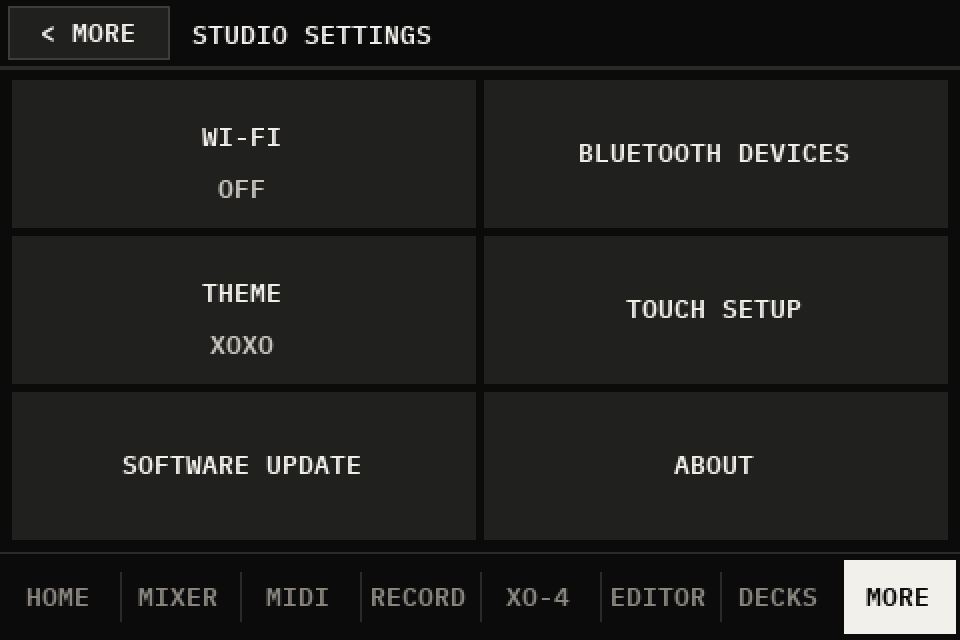
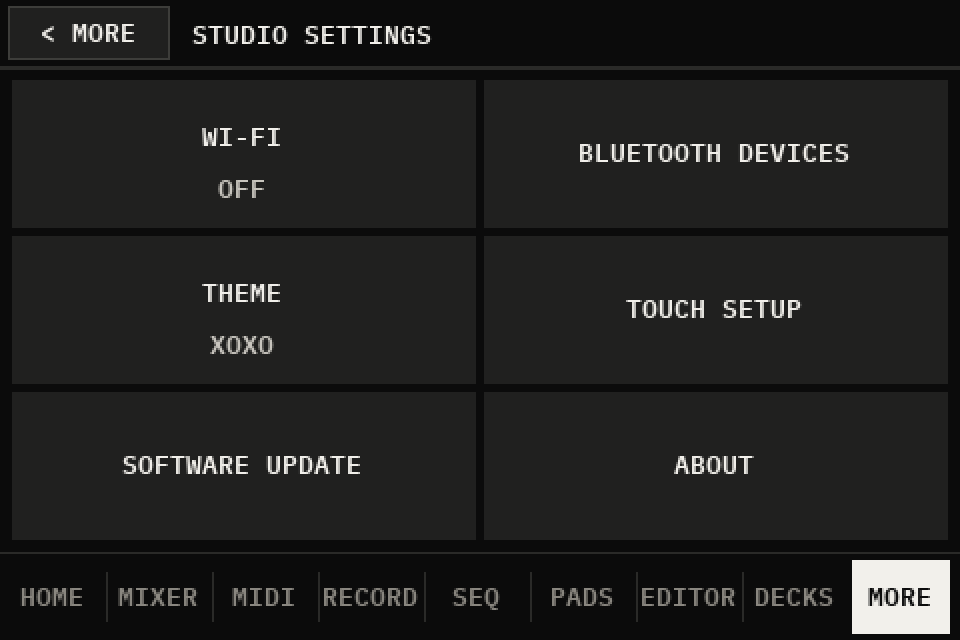
README brought up to 0.3.0: SEQ at the top, the plug-ins marked as plug-ins, what was tried in 0.2 said so; new screens
- The first picture is SEQ (docs/images/studio-hero.png, the Studio's own SEQ screen drawn on a PC), not a still of
  XO-4 from the tour; the tour's caption says it shows beta 0.2
- The table: a SEQ row and a plug-ins row (sampler, sample editor, DJ decks, synths: what was tried in 0.2, when
  they were part of the app, and what isn't tried in 0.3.0)
- The web app, What's inside, MIDI and the Built-on table: the pads, the editor and the decks as plug-ins; EDITOR
  moved beside PADS and DECKS, each "(a plug-in)"; the pictures said to show those plug-ins switched on
- Tested: what names XO-4, the pads, the decks or the editor was tried in 0.2; Not yet tried has SEQ and 0.3.0's
  plug-ins instead of XO-4
- docs/images/studio-about.png and studio-settings.png drawn again (python tools/studio_screens.py): ABOUT shows
  0.3.0. The other pictures came out the same as before

Credits: none new. This text and the pictures: GPL-3.0 with the repo.

Tested: the pictures drawn on a PC by tools/studio_screens.py with XOXO-Studio-Plugins beside the repo, and looked at.
Not tested: nothing to run; the README as GitHub shows it.

Changed region(s): [[0.0, 0.875, 1.0, 1.0]]

diff --git a/README.md b/README.md
@@ -1,8 +1,8 @@
 # XOXO Studio (beta 0.3.0)
 
-[![The XOXO Studio tour: every screen on a real Studio, with a song made on XO-4 and the Synths plug-in (3:36)](docs/images/studio-tour.jpg)](docs/video/xoxo-studio-tour.mp4)
+<img src="docs/images/studio-hero.png" width="640" alt="SEQ, the Studio's 8-track MIDI sequencer">
 
-**[Watch the tour](docs/video/xoxo-studio-tour.mp4)** (3:36): every screen on a real Studio (a Pi 3 B+), with the Studio's own sound. The song, "Pocket Groove", was made on XO-4 with the Synths plug-in. Credits are at the end of the video.
+**[Watch the tour](docs/video/xoxo-studio-tour.mp4)** (3:36): every screen on a real Studio (a Pi 3 B+), with the Studio's own sound. The tour shows beta 0.2, before SEQ took XO-4's place; the song, "Pocket Groove", was made on XO-4 with the Synths plug-in. Credits are at the end of the video.
 
 A portable music studio on a Raspberry Pi with a 3.5" touchscreen, by XOXO Audio Labs: an 8-track MIDI sequencer (SEQ), a mixer and recorder for USB sound sources, MIDI routing, a web app for your phone, and, on a Pi 4, a USB audio + MIDI interface for your computer. It's made for USB and Bluetooth MIDI gear and USB sound sources, not tied to one instrument. More comes as plug-ins, each off until switched on: a 16-pad sampler, a sample editor, two DJ decks and synths, from [XOXO-Studio-Plugins](https://github.com/xoxoaudiolabs/XOXO-Studio-Plugins).
 
@@ -16,13 +16,13 @@ The version shows on the boot screen and in MORE › STUDIO SETTINGS › ABOUT.
 |---|---|---|
 | Install, boot, touchscreen | Pi 4 (Waveshare 3.5" (C), DAC HAT); Pi 3 B+ (Hosyond 3.5" SPI); Pi 3 B (UCTRONICS 3.5" HDMI) | Waveshare (A); a fresh install with the `xoxo35` screen set-up; the `--screen hdmi` option itself |
 | Pi 4 as a USB interface | Windows 11, no driver: audio and MIDI both ways | a DAW; macOS or Linux; the power/data splitter; latency |
-| SEQ and the pads | the pads used by hand and measured (with XO-4, before SEQ replaced it); SEQ on a PC only | SEQ on a Studio: its tracks, timing, MIDI out to real gear |
+| SEQ | its screen seen on the Pi 4 | its tracks, timing, MIDI out to real gear (tried on a PC only) |
 | Mixer and sound out | USB sources heard (two FM-1s, an Ember Nanocore, a USB mic); the DAC HAT's outs; a Bluetooth speaker; mute, solo and level measured | the Pi's own 3.5 mm jack; CUE |
-| DJ decks | played by touch, music from a USB drive; SYNC to the Studio's clock measured (with XO-4) | a controller (the Hercules, MIDI LEARN) |
+| Plug-ins: sampler, sample editor, DJ decks, synths | in 0.2, when they were part of the app: the pads used by hand and measured; the decks played by touch from a USB drive, their SYNC measured; Synths and Tester Tools on a Pi 3 B+ | 0.3.0's plug-ins switched on on a Studio; the sample editor on hardware; the decks with a controller (the Hercules, MIDI LEARN) |
 | Two Studios linked | clock, start/stop, REC from the leader on both, the link's latency measured | sound heard across by ear; REC from the follower |
 | A Pocket linked | its link and its sound into the Studio | the speaker handover; the mix back to a Pocket; its FM-1s on their own streams |
-| MIDI | network MIDI; clock out a route to a USB device; a USB keyboard playing XO-4's synth (Pi 4) | a keyboard's notes out to other gear through the routes; arp and chord |
-| Recording | takes from the web page on two linked Studios | a take listened back on the Studio; the sample EDITOR |
+| MIDI | network MIDI; clock out a route to a USB device; a USB keyboard playing XO-4's synth (Pi 4, in 0.2) | a keyboard's notes out to other gear through the routes; arp and chord |
+| Recording | takes from the web page on two linked Studios | a take listened back on the Studio |
 | Web app | on a phone and a PC: the tabs, Settings, the MIDI grid | adding music from a phone; USB out and the link settings from it |
 | Updates | from GitHub on a Pi 3 B+ (v0.2.0, then v0.2.1); without a password on a Pi 3 B | going back when a new version won't start (tried on a PC only) |
 | Shutting down | ends on SAFE TO UNPLUG (a Pi 3 B, SPI screen) | — |
@@ -61,7 +61,7 @@ The version shows on the boot screen and in MORE › STUDIO SETTINGS › ABOUT.
    - `--screen c`: the Waveshare 3.5" (C) (tried on the Pi 4: right side up).
    - No `--screen`: the Hosyond 3.5" / Waveshare (A), with the Studio's `xoxo35` overlay for blacker blacks (made and used on a running Studio; a fresh install with it not yet tried).
    - `--screen hdmi`: the UCTRONICS 3.5" HDMI touchscreen (its settings tried, set by hand; the option itself not yet run).
-   - On a Pi 4 the installer also sets up the USB interface on its USB-C port, with nothing to choose (tried: see [The Pi 4 as a USB interface](#the-pi-4-as-a-usb-interface)), and the Studio plays more at once: up to 32 pad voices (16 on a Pi 3) (measured, not yet listened to).
+   - On a Pi 4 the installer also sets up the USB interface on its USB-C port, with nothing to choose (tried: see [The Pi 4 as a USB interface](#the-pi-4-as-a-usb-interface)), and the sampler plug-in plays more at once: up to 32 pad voices (16 on a Pi 3) (measured in 0.2, not yet listened to).
 5. **On the first start** the Studio asks for the touch setup (four targets) before HOME.
 
 ## Updating
@@ -80,14 +80,14 @@ At `http://xoxostudio.local` (or the address in MORE › STUDIO SETTINGS › ABO
 
 Its tabs:
 - **Status:** the tempo, start / stop, the metronome, speaker, volume, the mixer (with DECKS while they play), a linked Pocket, keyboard, Record
-- **Studio:** the sequencer's patterns A–H, Play / Stop, MIDI IN; the pads' kits; the DJ decks; the Studio DJ Music folder, where tracks can be added from the page (not yet tried from a phone)
+- **Studio:** SEQ's patterns A–H, Play / Stop; with the plug-ins on, the pads' kits and MIDI IN (sampler), the DJ decks and the Studio DJ Music folder, where tracks can be added from the page (not yet tried from a phone)
 - **MIDI:** the routes and presets (on a phone the grid's destination names stand up, so every route fits across)
-- **Library** (samples), **Editor**, **Rec** (the recordings)
+- **Library** (samples), **Editor** (while the sample editor plug-in is on), **Rec** (the recordings)
 - **Settings:** the clock, the audio rate and Latency, USB out, the Studio link, the screen's theme, About, and Software (updates)
 
 ## What's inside
 
-The pictures are drawn on a PC by the Studio's own drawing code with a made-up studio (`python tools/studio_screens.py docs/images`), at twice the screen's 480×320: they're not photos of the device.
+The pictures are drawn on a PC by the Studio's own drawing code with a made-up studio (`python tools/studio_screens.py docs/images`, with a clone of XOXO-Studio-Plugins beside this one), at twice the screen's 480×320: they're not photos of the device. They show the sampler, sample editor and DJ decks plug-ins switched on; without them the tab bar is HOME, MIXER, MIDI, RECORD, SEQ, MORE.
 
 The tab bar: HOME, MIXER, MIDI, RECORD, SEQ, MORE, and the plug-ins' tabs before MORE (PADS, EDITOR, DECKS while they're on). SEQ, PADS, EDITOR, DECKS and RECORD are full screen: "< HOME", top left, leads back. MIXER, MIDI and MORE keep the tab bar and have "< HOME" too.
 
@@ -102,12 +102,6 @@ The tempo with − / +; every source (each USB device, the pads, the decks while
 Every source a level, with M (mute) and S (solo) above its fader (also on the web page; HOME says MUTE or OFF), recorded as one mix (or a part each), with meters. Mute and solo leave CUE and Record parts as they are, and a restart clears them.
 
 <img src="docs/images/studio-mixer.png" width="480" alt="MIXER">
-
-### EDITOR
-
-The sample editor (full screen): a recording or a sample trimmed, faded, its note found, saved as a new sample, or put straight on a pad (TO PAD). Not yet tried on hardware.
-
-<img src="docs/images/studio-editor.png" width="480" alt="EDITOR">
 
 ### SEQ, the sequencer
 
@@ -136,15 +130,21 @@ The 16-pad sampler is a plug-in (`sampler` in [XOXO-Studio-Plugins](https://gith
 |---|---|
 | <img src="docs/images/studio-pads.png" width="400" alt="PADS"><br>**PADS** | <img src="docs/images/studio-pad-page.png" width="400" alt="A pad's page"><br>**A pad's page** |
 
-### DECKS
+### EDITOR, the sample editor (a plug-in)
 
-Two DJ decks (full screen), from the Studio DJ Music folder or a USB drive, played by touch (tried), a Hercules DJControl Inpulse 200 MK2 (its mapping is built in; not yet tried on the Studio), or another MIDI controller after MIDI LEARN (not yet tried). Each deck has its own FX (ECHO on the beat, REVERB, FLANGER, BRAKE: FX tapped on or off, held for the next one; echo and reverb ring out). **SYNC** follows the other deck's tempo and beat, or, while the sequencer plays, the Studio's clock (the deck shows SYNC SEQ). A synced deck started lands on its lead's bar: the track's first beat is taken as a bar's first, which is a guess. SYNC pressed while a deck plays moves it less than a beat. A deck fades over 6 ms when it starts, stops, cues or jumps (no click).
+The sample editor is a plug-in (`editor` in [XOXO-Studio-Plugins](https://github.com/xoxoaudiolabs/XOXO-Studio-Plugins)), off until switched on: the EDITOR tab (full screen), where a recording or a sample is trimmed, faded, its note found, saved as a new sample, or put straight on a pad (TO PAD, with the sampler on). Not yet tried on hardware.
+
+<img src="docs/images/studio-editor.png" width="480" alt="EDITOR">
+
+### DECKS, the DJ decks (a plug-in)
+
+The DJ decks are a plug-in (`decks` in [XOXO-Studio-Plugins](https://github.com/xoxoaudiolabs/XOXO-Studio-Plugins)), off until switched on: the DECKS tab and DECKS in the mixer. What follows was tried in 0.2, when they were part of the app. Two DJ decks (full screen), from the Studio DJ Music folder or a USB drive, played by touch (tried), a Hercules DJControl Inpulse 200 MK2 (its mapping is built in; not yet tried on the Studio), or another MIDI controller after MIDI LEARN (not yet tried). Each deck has its own FX (ECHO on the beat, REVERB, FLANGER, BRAKE: FX tapped on or off, held for the next one; echo and reverb ring out). **SYNC** follows the other deck's tempo and beat, or, while the sequencer plays, the Studio's clock (the deck shows SYNC SEQ). A synced deck started lands on its lead's bar: the track's first beat is taken as a bar's first, which is a guess. SYNC pressed while a deck plays moves it less than a beat. A deck fades over 6 ms when it starts, stops, cues or jumps (no click).
 
 <img src="docs/images/studio-decks.png" width="480" alt="DECKS">
 
 ### MIDI
 
-Routes between Bluetooth MIDI, each USB MIDI device, network MIDI (a DAW) and the pads, with channels, transpose, velocity, chord memory and an arpeggiator per route. On hardware so far: network MIDI, and the clock sent out a route to a USB device. Notes from a keyboard through the routes, arp and chord are tried on a PC only.
+Routes between Bluetooth MIDI, each USB MIDI device, network MIDI (a DAW), SEQ and the plug-ins (the sampler's SMP), with channels, transpose, velocity, chord memory and an arpeggiator per route. On hardware so far: network MIDI, and the clock sent out a route to a USB device. Notes from a keyboard through the routes, arp and chord are tried on a PC only.
 
 <img src="docs/images/studio-midi.png" width="480" alt="MIDI">
 
@@ -199,7 +199,7 @@ Tried (2026-11-07, the Pi 4 on Windows 11, no driver installed): Windows listed 
 
 ## Tested
 
-What has been tried on hardware, by Studio. "The user's report" is what was seen or heard by the person testing; everything else was measured on the Pi.
+What has been tried on hardware, by Studio. "The user's report" is what was seen or heard by the person testing; everything else was measured on the Pi. What names XO-4, the pads, the decks or the sample editor was tried in 0.2, when they were part of the app (XO-4 is gone in 0.3.0; the others are plug-ins).
 
 **The Pi 4 Studio** (2026-11-07: Raspberry Pi 4 B 1 GB, Raspberry Pi OS Lite 64-bit (Trixie), Waveshare 3.5" (C), InnoMaker HiFi DAC HAT):
 - installed from the v0.2.1 release downloaded on the Pi, `install.sh --dac --screen c`: the DAC (BossDAC), the screen and the USB interface came up after the reboot. The screen was upside down at `rotate=90`; at `rotate=270` it's right side up (the user's report), and `--screen c` now sets 270
@@ -235,7 +235,7 @@ What has been tried on hardware, by Studio. "The user's report" is what was seen
 - the link's latency (`tools/snake_time.py`): about 12-22 ms one way, settled, also over a 100 ft cable; with Tester Tools, a pad on the follower: 172 ms round trip at SAFE, 87 at LOWEST
 - a Pocket: over Wi-Fi and a direct Ethernet cable it links, and its FM-1 plays out of the Studio's speaker as POCKET (the user's report); its MIDI with a stand-in Pocket on a PC
 
-**Not yet tried on hardware:** a Pi 4's own Bluetooth; the Pi 4 on the power/data splitter; the USB interface with a DAW, macOS or Linux; the Pi 4's extra voices by ear; sound out of the Pi's 3.5 mm jack; XO-4 by ear (its timing against the pads, its MIDI track to real gear); the mixer by ear and CUE; a Pocket's FM-1s on their own streams; linked REC with a Pocket; a take listened back on the Studio; XO-4's DRUMS by hand (finger drumming, ratchets, nudge, live REC, RPT); the EDITOR and the sample editor; a keyboard's notes out to other gear through the MIDI routes, arp and chord; the DJ decks with a controller; Bluetooth headphones; Bluetooth MIDI on a dongle; sound heard across two linked Studios; an update putting the old version back.
+**Not yet tried on hardware:** a Pi 4's own Bluetooth; the Pi 4 on the power/data splitter; the USB interface with a DAW, macOS or Linux; the Pi 4's extra voices by ear; sound out of the Pi's 3.5 mm jack; SEQ on a Studio (its tracks and timing, its MIDI to real gear); the plug-ins switched on in 0.3.0; the mixer by ear and CUE; a Pocket's FM-1s on their own streams; linked REC with a Pocket; a take listened back on the Studio; the sample editor; a keyboard's notes out to other gear through the MIDI routes, arp and chord; the DJ decks with a controller; Bluetooth headphones; Bluetooth MIDI on a dongle; sound heard across two linked Studios; an update putting the old version back.
 
 **On a PC:** the test suite passes, file by file (each `tests/test_*.py` with its own runner; `tests/test_desk.py` and `tests/test_netmidi.py` through pytest). The screen pictures under [What's inside](#whats-inside) are drawn by the Studio's own code on a PC.
 
@@ -262,20 +262,20 @@ Not affiliated with Roland or Hercules. TR-808 is a trademark of Roland Corporat
 |---|---|---|
 | Raspberry Pi OS (Debian) and the Linux kernel | the system; the screen's drivers (fbtft, SPI, I2C); its `piscreen` overlay, which `config/xoxo35.sh` turns into the Studio's `xoxo35` on the Pi | GPL-2.0 (the kernel); Debian's packages each their own |
 | the Device Tree Compiler (`dtc`) | making the `xoxo35` screen overlay | GPL-2.0-or-later |
-| PipeWire (`pw-cat`, `pw-record`, `pw-loopback` …) and its Bluetooth plugin | all the sound: the mixer, Bluetooth audio, recording, the pads, the decks | MIT, with some parts LGPL-2.1-or-later |
+| PipeWire (`pw-cat`, `pw-record`, `pw-loopback` …) and its Bluetooth plugin | all the sound: the mixer, Bluetooth audio, recording, and the sampler's and the decks' plug-ins | MIT, with some parts LGPL-2.1-or-later |
 | WirePlumber (`wpctl`) | PipeWire's session manager; levels | MIT |
 | BlueZ | Bluetooth: speakers, Bluetooth MIDI | GPL-2.0-or-later (its libraries LGPL-2.1-or-later) |
 | D-Bus | talking to BlueZ | GPL-2.0-or-later or AFL-2.1 (some parts MIT, BSD) |
 | systemd | the app's services | LGPL-2.1-or-later (some parts GPL-2.0-or-later) |
 | NetworkManager (`nmcli`) | Wi-Fi on / off | GPL-2.0-or-later (its libraries LGPL-2.1-or-later) |
 | RealtimeKit (rtkit) | real-time priority for the sound | GPL-3.0-or-later (some parts MIT) |
-| udisks2, exfatprogs, ntfs-3g | USB drives of music for the decks | GPL-2.0-or-later (udisks2's library LGPL-2.0-or-later) |
+| udisks2, exfatprogs, ntfs-3g | USB drives of music for the decks plug-in | GPL-2.0-or-later (udisks2's library LGPL-2.0-or-later) |
 | Python 3 | the app itself | PSF License |
 | Pillow | drawing every screen, the icons | the PIL Software License (MIT-CMU) |
 | python-qrcode (`python3-qrcode`) | the QR codes in STUDIO SETTINGS > ABOUT | BSD-3-Clause |
-| NumPy | meters, the sampler, the sample editor | BSD-3-Clause |
+| NumPy | meters, and the sampler and sample editor plug-ins | BSD-3-Clause |
 | mido and python-rtmidi (RtMidi) | MIDI | MIT |
-| libsndfile, with mpg123 | the DJ decks reading MP3, FLAC, WAV, AIFF and Ogg | LGPL-2.1-or-later (some parts Apache-2.0); mpg123 LGPL-2.1 |
+| libsndfile, with mpg123 | the DJ decks plug-in reading MP3, FLAC, WAV, AIFF and Ogg | LGPL-2.1-or-later (some parts Apache-2.0); mpg123 LGPL-2.1 |
 | dbus-python | BlueZ over D-Bus | MIT (some parts AFL-2.1 or GPL-2.0-or-later) |
 | PyGObject | BlueZ's events (GLib) | LGPL-2.1-or-later |
 | spidev, libgpiod's Python bindings, smbus2, i2c-tools | the pocket build's screen and keys; the PiSugar battery | MIT; LGPL-2.1-or-later; MIT; GPL-2.0-or-later |
